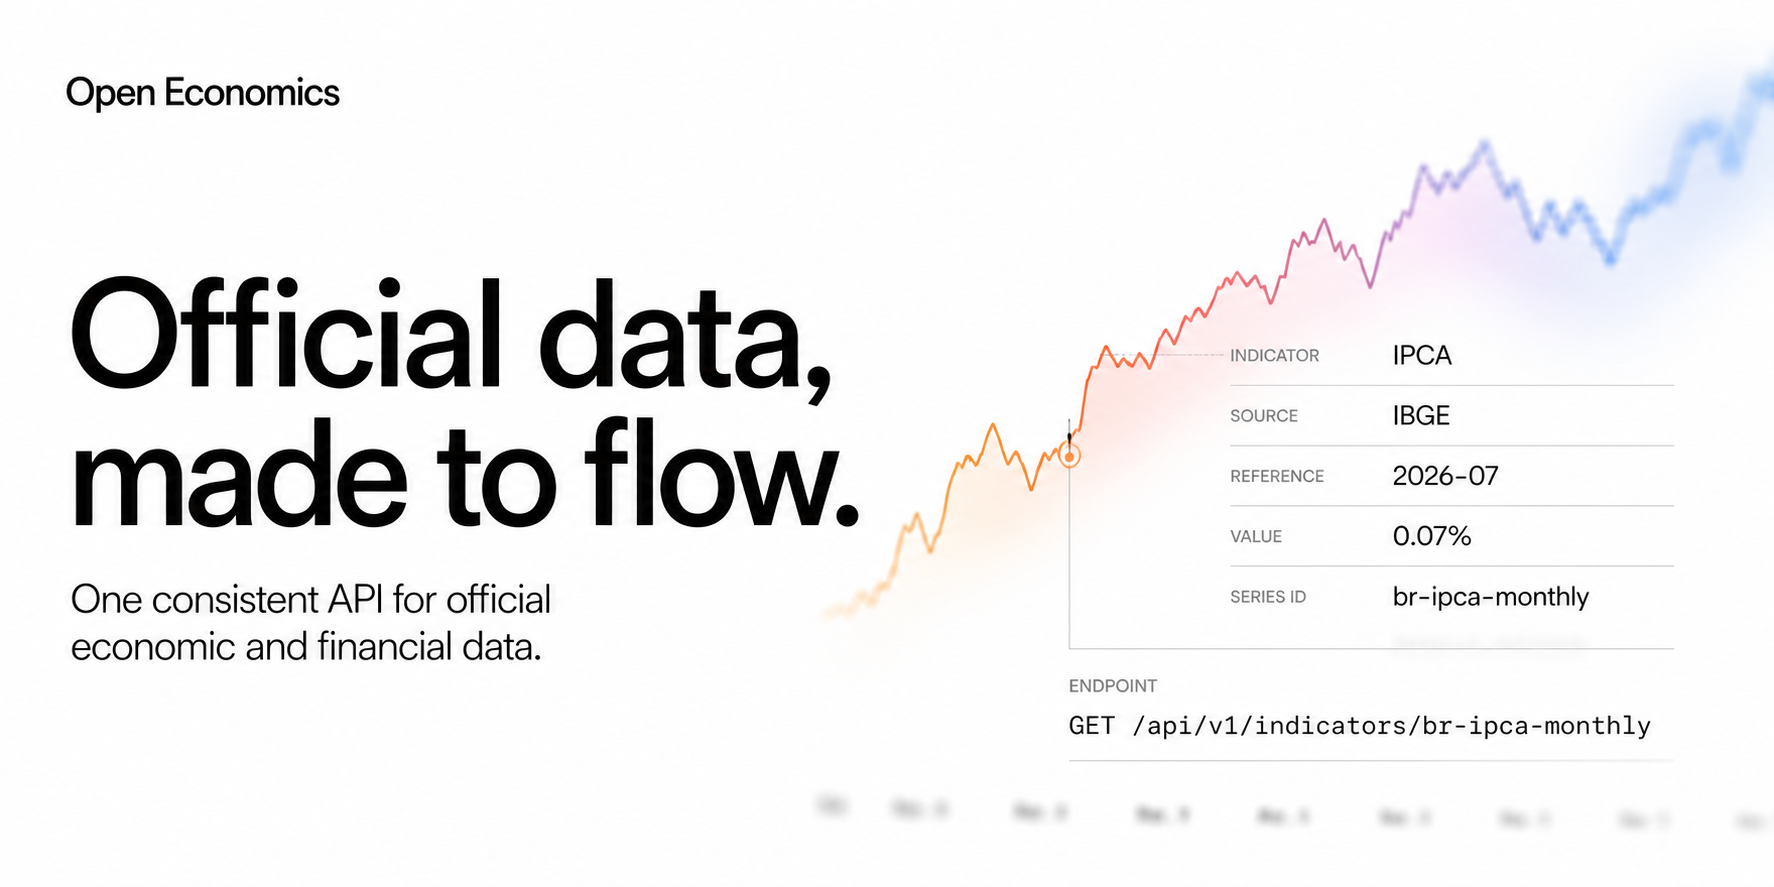
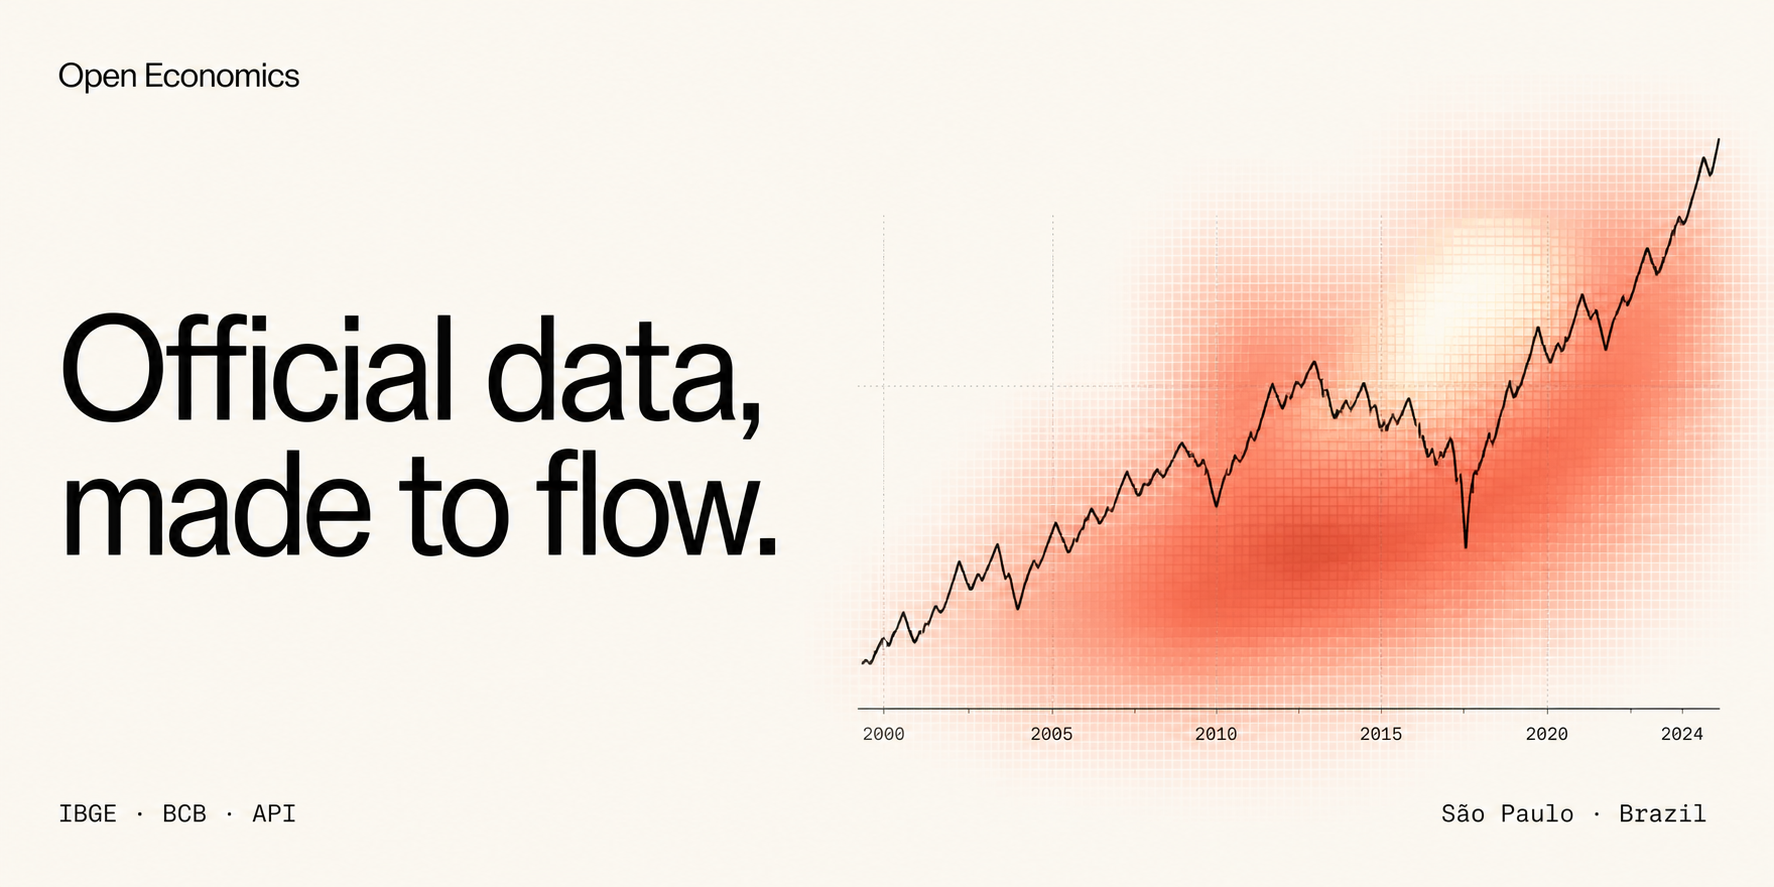
Finish Open Economics product experience

diff --git a/app/components/SiteFooter.tsx b/app/components/SiteFooter.tsx
@@ -1,6 +1,77 @@
 import { localized, type Locale } from "@/lib/i18n";
 
-export function SiteFooter({ locale = "en" }: { locale?: Locale }) {
+export function SiteFooter({ locale = "en", dramatic = false }: { locale?: Locale; dramatic?: boolean }) {
   const pt = locale === "pt-br";
-  return <footer className="signal-footer"><div className="signal-footer-main"><a className="signal-brand" href={localized(locale)}><span className="signal-mark" aria-hidden="true"><i /><i /><i /></span><span>Open Economics</span></a><p>{pt ? "Dados econômicos oficiais, mais fáceis de encontrar, entender e usar." : "Official economic data, made easier to find, understand, and use."}</p><nav><div><span>{pt ? "Produto" : "Product"}</span><a href={localized(locale, "/catalog")}>{pt ? "Explorar dados" : "Explore data"}</a><a href={localized(locale, "/playground")}>Playground</a><a href={localized(locale, "/status")}>Status</a></div><div><span>{pt ? "Recursos" : "Resources"}</span><a href={localized(locale, "/docs")}>Documentation</a><a href={localized(locale, "/sources")}>{pt ? "Fontes e licenças" : "Sources & licenses"}</a><a href="/api/v1/openapi.json">OpenAPI 3.1</a></div></nav></div><div className="signal-footer-bottom"><span>© 2026 Open Economics · MIT</span><span>{pt ? "As licenças dos dados de origem se aplicam" : "Upstream data licenses apply"}</span><span>São Paulo · Brazil</span></div></footer>;
+
+  if (dramatic) return (
+    <footer className="signal-footer signal-footer-dramatic" data-nav-theme="dark">
+      <a className="footer-build" href={localized(locale, "/playground")}>
+        {pt ? "Construa com Open Economics" : "Build with Open Economics"}<span>→</span>
+      </a>
+      <div className="footer-directory">
+        <div>
+          <span>{pt ? "Dados" : "Data"}</span>
+          <a href={localized(locale, "/catalog")}>{pt ? "Explorar catálogo" : "Explore catalog"}</a>
+          <a href={localized(locale, "/indicators/br-ipca-monthly")}>IPCA</a>
+          <a href={localized(locale, "/indicators/br-selic-target")}>Selic</a>
+          <a href={localized(locale, "/sources")}>{pt ? "Fontes oficiais" : "Official sources"}</a>
+        </div>
+        <div>
+          <span>{pt ? "Construa" : "Build"}</span>
+          <a href={localized(locale, "/playground")}>Playground</a>
+          <a href={localized(locale, "/docs")}>Quickstart</a>
+          <a href={localized(locale, "/docs/api-reference")}>API reference</a>
+          <a href="/api/v1/openapi.json">OpenAPI 3.1</a>
+        </div>
+        <div>
+          <span>{pt ? "Integridade" : "Integrity"}</span>
+          <a href={localized(locale, "/sources")}>{pt ? "Origem e licenças" : "Provenance & licenses"}</a>
+          <a href={localized(locale, "/docs/revisions")}>{pt ? "Revisões" : "Revisions"}</a>
+          <a href={localized(locale, "/status")}>Live status</a>
+        </div>
+        <div>
+          <span>{pt ? "Projeto" : "Project"}</span>
+          <a href={localized(locale, "/docs")}>Documentation</a>
+          <a href={localized(locale, "/docs/attribution")}>{pt ? "Atribuição" : "Attribution"}</a>
+          <a href={localized("pt-br")}>Português</a>
+        </div>
+      </div>
+      <div className="footer-wordmark" aria-hidden="true">Open Economics</div>
+      <div className="signal-footer-bottom">
+        <span>© 2026 Open Economics · MIT</span>
+        <span>{pt ? "As licenças dos dados de origem se aplicam" : "Upstream data licenses apply"}</span>
+        <span>São Paulo · Brazil</span>
+      </div>
+    </footer>
+  );
+
+  return (
+    <footer className="signal-footer">
+      <div className="signal-footer-main">
+        <a className="signal-brand" href={localized(locale)}>
+          <span className="signal-mark" aria-hidden="true"><i /><i /><i /></span><span>Open Economics</span>
+        </a>
+        <p>{pt ? "Dados econômicos oficiais, mais fáceis de encontrar, entender e usar." : "Official economic data, made easier to find, understand, and use."}</p>
+        <nav>
+          <div>
+            <span>{pt ? "Produto" : "Product"}</span>
+            <a href={localized(locale, "/catalog")}>{pt ? "Explorar dados" : "Explore data"}</a>
+            <a href={localized(locale, "/playground")}>Playground</a>
+            <a href={localized(locale, "/status")}>Status</a>
+          </div>
+          <div>
+            <span>{pt ? "Recursos" : "Resources"}</span>
+            <a href={localized(locale, "/docs")}>Documentation</a>
+            <a href={localized(locale, "/sources")}>{pt ? "Fontes e licenças" : "Sources & licenses"}</a>
+            <a href="/api/v1/openapi.json">OpenAPI 3.1</a>
+          </div>
+        </nav>
+      </div>
+      <div className="signal-footer-bottom">
+        <span>© 2026 Open Economics · MIT</span>
+        <span>{pt ? "As licenças dos dados de origem se aplicam" : "Upstream data licenses apply"}</span>
+        <span>São Paulo · Brazil</span>
+      </div>
+    </footer>
+  );
 }

diff --git a/app/signal.css b/app/signal.css
@@ -391,3 +391,53 @@ a { color: inherit; }
 @media (prefers-reduced-motion: reduce) {
   .oe-atlas::before { animation: none; }
 }
+
+/* Final composition — an adaptive frame and one disciplined visual language. */
+.signal-header { position: sticky; top: 0; z-index: 100; background: rgba(255,255,255,0); transition: background .35s ease, color .35s ease, box-shadow .35s ease; }
+.signal-nav { transition: height .35s cubic-bezier(.16,1,.3,1), border-color .35s ease; }
+.signal-header.is-scrolled { background: rgba(255,255,255,.84); box-shadow: 0 1px 0 rgba(17,17,17,.08); backdrop-filter: blur(18px) saturate(1.15); }
+.signal-header.is-scrolled .signal-nav { height: 64px; border-color: transparent; }
+.signal-header.is-dark { color: #fff; background: rgba(12,12,12,.82); box-shadow: 0 1px 0 rgba(255,255,255,.1); }
+.signal-header.is-dark .signal-nav { border-color: transparent; }
+.signal-header.is-dark .signal-brand,
+.signal-header.is-dark .signal-nav-links a,
+.signal-header.is-dark .signal-status,
+.signal-header.is-dark .language-switch { color: #fff; }
+.signal-header.is-dark .status-dot { box-shadow: 0 0 0 4px rgba(95,212,137,.12); }
+.signal-header.is-dark .signal-nav-cta { border-color: #fff; background: #fff; color: #111; }
+.signal-header.is-dark .signal-nav-cta:hover { background: transparent; color: #fff; }
+.signal-header.is-dark .signal-mobile-menu summary i { background: #fff; }
+
+.field-color { background: radial-gradient(circle at 72% 24%,#ffdfaf 0 8%,transparent 29%),radial-gradient(circle at 20% 23%,#f39886 0 16%,transparent 41%),linear-gradient(138deg,#f6c4a7 0%,#df7f72 48%,#9b4a51 100%); }
+.field-color::after { opacity: .18; background-image: repeating-linear-gradient(162deg,transparent 0 28px,rgba(255,255,255,.18) 29px 30px); }
+.field-color i:nth-child(1) { background: rgba(255,231,181,.55); }
+.field-color i:nth-child(2) { background: rgba(169,67,78,.28); }
+.field-color i:nth-child(3) { background: rgba(255,129,105,.42); }
+.economic-field::before { background: rgba(234,146,117,.32) !important; }
+.oe-stream::before { opacity: .86; background: radial-gradient(circle at 77% 20%,rgba(140,177,201,.38),transparent 30%),linear-gradient(140deg,#f4f5f4,#e8eef1 64%,#f4f3ef); filter: none; }
+.oe-atlas::after { display: none; }
+.oe-atlas.tone-blue::before { background: #7fa1bc; }
+.oe-atlas.tone-lime::before { background: #c7ba77; }
+
+.signal-footer-dramatic { position: relative; min-height: 920px; padding: 72px 48px 22px; overflow: hidden; background: #111; }
+.footer-build { width: min(1450px,100%); min-height: 150px; margin: 0 auto 68px; display: flex; align-items: flex-start; justify-content: space-between; border-bottom: 1px solid rgba(255,255,255,.2); color: #fff; font-size: clamp(42px,5.2vw,78px); font-weight: 470; letter-spacing: -.065em; line-height: .95; text-decoration: none; }
+.footer-build span { font-weight: 300; transition: transform .35s cubic-bezier(.16,1,.3,1); }
+.footer-build:hover span { transform: translate(10px,-3px); }
+.footer-directory { position: relative; z-index: 2; width: min(1450px,100%); min-height: 330px; margin: 0 auto; display: grid; grid-template-columns: repeat(4,1fr); border-left: 1px solid rgba(255,255,255,.12); }
+.footer-directory > div { padding: 4px 34px; display: flex; flex-direction: column; gap: 13px; border-right: 1px solid rgba(255,255,255,.12); }
+.footer-directory span { margin-bottom: 54px; color: rgba(255,255,255,.32); font: 500 8px var(--font-data),monospace; text-transform: uppercase; letter-spacing: .08em; }
+.footer-directory a { width: max-content; max-width: 100%; color: rgba(255,255,255,.82); font-size: 11px; line-height: 1.35; text-decoration: none; transition: color .2s, transform .2s; }
+.footer-directory a:hover { color: #fff; transform: translateX(4px); }
+.footer-wordmark { width: min(1450px,100%); margin: 42px auto -2vw; color: #1c1c1c; font-size: clamp(94px,14.8vw,232px); font-weight: 560; letter-spacing: -.085em; line-height: .76; white-space: nowrap; }
+.signal-footer-dramatic .signal-footer-bottom { position: relative; z-index: 3; margin-top: 32px; }
+
+@media (max-width: 720px) {
+  .signal-header.is-scrolled .signal-nav { height: 58px; }
+  .signal-header.is-dark .signal-mobile-menu > div { background: #111; border-color: rgba(255,255,255,.16); }
+  .signal-footer-dramatic { min-height: 790px; padding: 55px 20px 22px; }
+  .footer-build { min-height: 120px; margin-bottom: 48px; font-size: 43px; }
+  .footer-directory { min-height: 390px; grid-template-columns: repeat(2,1fr); }
+  .footer-directory > div { padding: 4px 16px 34px; }
+  .footer-directory span { margin-bottom: 28px; }
+  .footer-wordmark { margin-top: 38px; font-size: 24vw; line-height: .82; }
+}

diff --git a/app/[locale]/page.tsx b/app/[locale]/page.tsx
@@ -37,7 +37,7 @@ export default async function LocalizedHome({ params }: { params: Promise<{ loca
       <div className="oe-manifesto-copy"><span>01 — 03</span><p>{pt ? "Diferentes órgãos, formatos, frequências e convenções se tornam uma experiência coerente — sem apagar o contexto de origem." : "Different agencies, formats, frequencies, and conventions become one coherent experience—without erasing their original context."}</p></div>
     </section>
 
-    <section className="oe-confluence">
+    <section className="oe-confluence" data-nav-theme="dark">
       <div className="oe-confluence-copy">
         <p className="oe-label">{pt ? "UMA CAMADA CONSISTENTE" : "ONE CONSISTENT LAYER"}</p>
         <h2>{pt ? "Muitas fontes. Uma forma de trabalhar." : "Many sources. One way to work."}</h2>
@@ -69,7 +69,7 @@ export default async function LocalizedHome({ params }: { params: Promise<{ loca
       <HomeDiscovery items={indicators} locale={locale} />
     </section>
 
-    <section className="oe-api">
+    <section className="oe-api" data-nav-theme="dark">
       <div className="oe-api-grid" aria-hidden="true" />
       <div className="oe-api-heading"><p className="oe-label">OPEN ECONOMICS API</p><h2>{pt ? <>Do dado oficial<br />ao seu produto,<br /><span>em uma chamada.</span></> : <>From official data<br />to your product,<br /><span>in one call.</span></>}</h2></div>
       <div className="oe-transform" aria-hidden="true"><span><i>01</i> Official observation<b>IBGE · 2026-07 · 0.07</b></span><em>→</em><span><i>02</i> Normalized series<b>br-ipca-monthly</b></span><em>→</em><span><i>03</i> Product-ready JSON<b>value · period · provenance</b></span></div>
@@ -91,12 +91,6 @@ export default async function LocalizedHome({ params }: { params: Promise<{ loca
       </div>
     </section>
 
-    <section className="oe-final">
-      <div className="oe-final-orbit" aria-hidden="true"><i /><i /><i /><b>OE</b></div>
-      <p className="oe-label">OPEN ECONOMICS</p>
-      <h2>{pt ? <>A economia,<br />pronta para <span>ser usada.</span></> : <>The economy,<br />ready to <span>be used.</span></>}</h2>
-      <div><a className="signal-button light" href={localized(locale, "/catalog")}>{pt ? "Explorar dados" : "Explore data"}<span>↗</span></a><a href={localized(locale, "/docs")}>{pt ? "Começar com a API" : "Start with the API"}<span>→</span></a></div>
-    </section>
-    <SiteFooter locale={locale} />
+    <SiteFooter locale={locale} dramatic />
   </main>;
 }

diff --git a/app/[locale]/status/page.tsx b/app/[locale]/status/page.tsx
@@ -6,5 +6,5 @@ import { isLocale } from "@/lib/i18n";
 
 export default async function StatusPage({ params }: { params: Promise<{ locale: string }> }) {
   const { locale: value } = await params; if (!isLocale(value)) notFound(); const locale = value; const pt = locale === "pt-br";
-  return <main className="atlas-page atlas-utility"><SiteHeader locale={locale} /><section className="atlas-page-hero atlas-shell compact"><p className="atlas-kicker">07 / Live status</p><div><h1>{pt ? "Falhas também são dados." : "Failure is data, too."}</h1><p>{pt ? "Verificações reais desta implantação e das fontes oficiais. Indisponibilidade e snapshots desatualizados nunca ficam escondidos." : "Real checks of this deployment and official sources. Outages and stale snapshots are never hidden."}</p></div></section><section className="atlas-status-page atlas-shell"><ApiStatus locale={locale} /><div className="status-principles"><div><span>01</span><b>Readiness</b><p>{pt ? "Roteamento e integridade do catálogo." : "Routing and catalog integrity."}</p></div><div><span>02</span><b>Publishers</b><p>{pt ? "Uma requisição IBGE e uma BCB." : "One IBGE and one BCB request."}</p></div><div><span>03</span><b>Stale</b><p>{pt ? "Snapshot anterior sempre identificado." : "Prior snapshots are always labeled."}</p></div></div></section><SiteFooter locale={locale} /></main>;
+  return <main className="atlas-page atlas-utility"><SiteHeader locale={locale} /><section className="atlas-page-hero atlas-shell compact"><p className="atlas-kicker">07 / Live status</p><div><h1>{pt ? "Falhas também são dados." : "Failure is data, too."}</h1><p>{pt ? "Verificações reais desta implantação e das fontes oficiais. Indisponibilidade e snapshots desatualizados nunca ficam escondidos." : "Real checks of this deployment and official sources. Outages and stale snapshots are never hidden."}</p></div></section><section className="atlas-status-page atlas-shell"><ApiStatus locale={locale} /></section><SiteFooter locale={locale} /></main>;
 }

diff --git a/app/components/SiteHeader.tsx b/app/components/SiteHeader.tsx
@@ -1,9 +1,33 @@
+"use client";
+
+import { useEffect, useState } from "react";
 import { LanguageSwitch } from "@/app/components/LanguageSwitch";
 import { localized, type Locale, ui } from "@/lib/i18n";
 
 export function SiteHeader({ locale = "en" }: { locale?: Locale }) {
   const copy = ui[locale];
-  return <header className="signal-header"><div className="signal-nav">
+  const [scrolled, setScrolled] = useState(false);
+  const [dark, setDark] = useState(false);
+
+  useEffect(() => {
+    let frame = 0;
+    const update = () => {
+      frame = 0;
+      setScrolled(window.scrollY > 24);
+      const navLine = 42;
+      setDark([...document.querySelectorAll<HTMLElement>("[data-nav-theme='dark']")].some((section) => {
+        const bounds = section.getBoundingClientRect();
+        return bounds.top <= navLine && bounds.bottom >= navLine;
+      }));
+    };
+    const schedule = () => { if (!frame) frame = window.requestAnimationFrame(update); };
+    update();
+    window.addEventListener("scroll", schedule, { passive: true });
+    window.addEventListener("resize", schedule);
+    return () => { window.removeEventListener("scroll", schedule); window.removeEventListener("resize", schedule); if (frame) window.cancelAnimationFrame(frame); };
+  }, []);
+
+  return <header className={`signal-header ${scrolled ? "is-scrolled" : ""} ${dark ? "is-dark" : ""}`}><div className="signal-nav">
     <a className="signal-brand" href={localized(locale)} aria-label="Open Economics home"><span className="signal-mark" aria-hidden="true"><i /><i /><i /></span><span>Open Economics</span></a>
     <nav className="signal-nav-links" aria-label="Primary navigation">
       <a href={localized(locale, "/catalog")}>{copy.nav.explore}</a><a href={localized(locale, "/docs")}>{copy.nav.docs}</a><a href={localized(locale, "/sources")}>{copy.nav.sources}</a><a className="signal-status" href={localized(locale, "/status")}><i aria-hidden="true" />{copy.nav.status}</a>

diff --git a/app/globals.css b/app/globals.css
@@ -658,3 +658,35 @@ pre, code { font-family: var(--font-data), monospace; }
   .atlas-sources > article,
   .atlas-sources > article:nth-child(2) { grid-template-columns: 1fr; }
 }
+
+/* Final product-density pass. */
+.chart-line { stroke-dasharray: 1; stroke-dashoffset: 1; animation: chart-draw .72s cubic-bezier(.16,1,.3,1) forwards; }
+.chart-tooltip { pointer-events: none; }
+.chart-tooltip rect { fill: #111; }
+.chart-tooltip text { fill: rgba(255,255,255,.58); font: 500 9px var(--font-data),monospace; }
+.chart-tooltip .chart-tooltip-value { fill: #fff; font-size: 12px; font-weight: 650; }
+.observation-status.observed { padding: 0; border-radius: 0; background: transparent; color: #555; }
+
+.result-hit { min-height: 96px; padding-top: 14px; padding-bottom: 14px; }
+.atlas-docs-head { padding: 42px 0 34px; }
+.atlas-docs-head h1 { margin-top: 14px; font-size: clamp(40px,4.4vw,64px); }
+.docs-search { margin-top: 28px; }
+.docs-search input { height: 48px; }
+.atlas-docs-layout { padding-top: 40px; padding-bottom: 95px; }
+.atlas-docs-content section { padding-bottom: 70px; }
+.atlas-docs-content h2 { font-size: clamp(34px,3.5vw,52px); }
+.atlas-status-page { padding-bottom: 80px; }
+.atlas-utility .signal-footer { padding-top: 48px; }
+.atlas-utility .signal-footer-bottom { margin-top: 42px; }
+
+@keyframes chart-draw { to { stroke-dashoffset: 0; } }
+
+@media (max-width: 720px) {
+  .result-hit { min-height: 104px; }
+  .atlas-docs-head { padding: 46px 0 38px; }
+  .atlas-docs-layout { padding-top: 38px; padding-bottom: 78px; }
+}
+
+@media (prefers-reduced-motion: reduce) {
+  .chart-line { stroke-dashoffset: 0; animation: none; }
+}

diff --git a/app/components/DataChart.tsx b/app/components/DataChart.tsx
@@ -101,12 +101,12 @@ export function DataChart({
           </g>
         ))}
       {segments.map((path, index) => (
-        <path className="chart-line" d={path} fill="none" key={index} vectorEffect="non-scaling-stroke" />
+        <path className="chart-line" d={path} fill="none" pathLength="1" key={index} vectorEffect="non-scaling-stroke" />
       ))}
       {active && active.value !== null && <g className="chart-crosshair">
         <line x1={x(activeIndex!)} x2={x(activeIndex!)} y1={padding.top} y2={height - padding.bottom} vectorEffect="non-scaling-stroke" />
         <circle cx={x(activeIndex!)} cy={y(active.value)} r={compact ? 4 : 5} vectorEffect="non-scaling-stroke" />
-        <title>{active.date}: {formatValue(active.value, decimals)} {unit}</title>
+        {!compact && <g className="chart-tooltip" transform={`translate(${Math.min(width - 150, Math.max(66, x(activeIndex!) - 70))},${Math.max(8, y(active.value) - 62)})`}><rect width="140" height="48" /><text x="10" y="18">{active.date}</text><text className="chart-tooltip-value" x="10" y="36">{formatValue(active.value, decimals)} {unit}</text></g>}
       </g>}
       {dateTicks.map((item, index) => (
         <text
